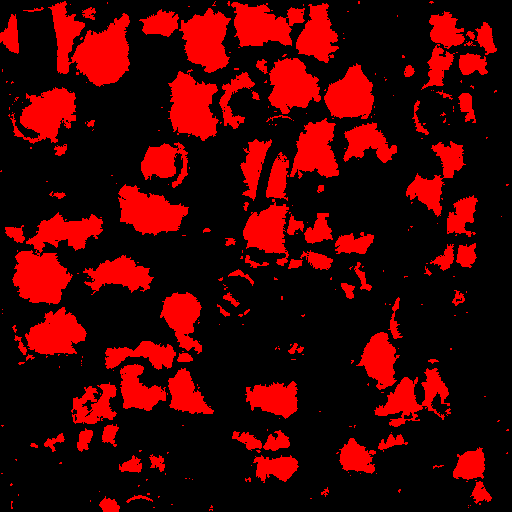
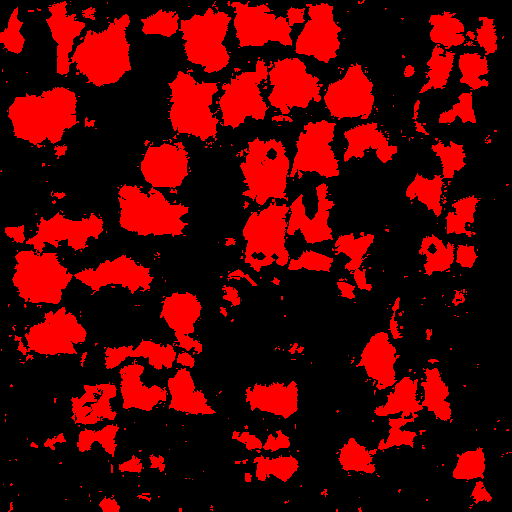
gfx: BON1A0 speckles were emission-mask holes — fuller glass mask + relative despeckle
The padding fill alone did not pass the in-game gate. The dominant source
turned out to be the emission mask: the flask glows steady at 0.85 with an
albedo-tinted glow, so a masked texel is 1.85x brighter than an unmasked
one, and make_bon1_emission.py's g > 70 test left every darker green shade
(35% of the covered glass) unmasked — each rendered at ~54% of its
neighbours, i.e. a black dot. Mask recipe: hue test (g > 30), closing of
holes inside the glass zone only, padding filled by nearest island.
fill_uv_padding.py gains relative texel/triangle despeckle and a grey guard
so strap edges are never recoloured green. Verified with the shader formula
on box mips: relative dark specks in the glass fall ~2.5x.

BonusAssetTests 2/2, PickupPlayTests 8/8, Windows build OK.

diff --git a/Tools/fill_uv_padding.py b/Tools/fill_uv_padding.py
@@ -51,6 +51,13 @@ def lum(rgb: np.ndarray) -> np.ndarray:
     return rgb[..., 0] * 0.299 + rgb[..., 1] * 0.587 + rgb[..., 2] * 0.114
 
 
+def sat(rgb: np.ndarray) -> np.ndarray:
+    """HSV saturation (0..1) of an (..., 3) array."""
+    mx = rgb.max(-1).astype(float)
+    mn = rgb.min(-1).astype(float)
+    return np.where(mx > 0, (mx - mn) / np.maximum(mx, 1e-6), 0.0)
+
+
 def nearest_fill(rgb: np.ndarray, keep: np.ndarray) -> np.ndarray:
     """Every texel outside `keep` takes the colour of the nearest kept texel."""
     if keep.all():
@@ -88,7 +95,28 @@ def despeckle(rgb: np.ndarray, region: np.ndarray, thr: float) -> np.ndarray:
     return out, int(dark.sum())
 
 
-def tri_despeckle(rgb: np.ndarray, obj_path: Path, thr: float, passes: int = 2):
+def rel_despeckle(rgb: np.ndarray, region: np.ndarray, ratio: float, size: int = 7):
+    """Texels darker than `ratio` x their local median (inside `region`, where
+    the median itself is a lit surface) take the median colour. Relative
+    rather than absolute: the flask's glass sits around lum 90-100 and its
+    bake noise at 55-65 slipped under the absolute cut yet reads as dots
+    once the steady glow multiplies the contrast."""
+    out = rgb.copy()
+    L = lum(rgb)
+    medL = ndimage.median_filter(L, size=size)
+    med = np.stack([ndimage.median_filter(rgb[..., c], size=size) for c in range(3)], -1)
+    # A grey texel next to coloured glass is a strap edge, not noise: only
+    # repaint when the texel itself is coloured or the target is grey too.
+    grey_guard = (sat(rgb) >= 0.2) | (sat(med) < 0.2)
+    dark = region & (medL > 40) & (L < medL * ratio) & grey_guard
+    if not dark.any():
+        return out, 0
+    out[dark] = med[dark]
+    return out, int(dark.sum())
+
+
+def tri_despeckle(rgb: np.ndarray, obj_path: Path, thr: float, passes: int = 2,
+                  ratio: float = None):
     """Mesh-aware despeckle: a triangle whose atlas footprint is dark while
     most of its vertex-adjacent neighbours are bright takes the median colour
     of those neighbours. Aimed at the 40k-triangle decimations whose tiny
@@ -129,16 +157,26 @@ def tri_despeckle(rgb: np.ndarray, obj_path: Path, thr: float, passes: int = 2):
         meanL = mean @ np.array([0.299, 0.587, 0.114])
         fixed = 0
         for i in range(n):
-            if meanL[i] >= thr:
-                continue
             nb = [j for j in adj[i] if j != i]
             if not nb:
                 continue
             nbL = meanL[nb]
-            bright = nbL > thr + 30
+            if ratio is None:
+                if meanL[i] >= thr:
+                    continue
+                bright = nbL > thr + 30
+            else:
+                nbMed = float(np.median(nbL))
+                if nbMed <= 40 or meanL[i] >= nbMed * ratio:
+                    continue
+                bright = nbL > nbMed * 0.8
             if bright.mean() < 0.6:
                 continue
             col = np.median(mean[np.array(nb)[bright]], axis=0)
+            # Grey triangle (strap edge) beside coloured glass: repaint only
+            # when nearly all neighbours agree it is an island of noise.
+            if sat(mean[i]) < 0.2 and sat(col) >= 0.2 and bright.mean() < 0.85:
+                continue
             foot = ids == i
             foot[cy[i], cx[i]] = True
             foot = ndimage.binary_dilation(foot, iterations=1) & ((ids == i) | ~inside | foot)
@@ -174,6 +212,10 @@ def main() -> None:
     ap.add_argument("--despeckle", type=float, default=None)
     ap.add_argument("--tri-despeckle", type=float, default=None,
                     help="repaint dark triangles among bright neighbours (lum threshold)")
+    ap.add_argument("--rel-despeckle", type=float, default=None,
+                    help="texel darker than RATIO x local median takes the median")
+    ap.add_argument("--tri-rel", type=float, default=None,
+                    help="triangle darker than RATIO x neighbour median takes their median")
     ap.add_argument("--out-dir", type=Path, default=None)
     ap.add_argument("--dump-mask", action="store_true")
     a = ap.parse_args()
@@ -195,9 +237,12 @@ def main() -> None:
     n_spec = 0
     if a.despeckle is not None:
         work, n_spec = despeckle(work, keep, a.despeckle)
-    if a.tri_despeckle is not None:
-        work, n_tri = tri_despeckle(work, a.obj, a.tri_despeckle)
-        print(f"  tri-despeckle {a.tri_despeckle}: repainted {n_tri} triangles")
+    if a.rel_despeckle is not None:
+        work, n_rel = rel_despeckle(work, keep, a.rel_despeckle)
+        print(f"  rel-despeckle {a.rel_despeckle}: replaced {n_rel} texels")
+    if a.tri_despeckle is not None or a.tri_rel is not None:
+        work, n_tri = tri_despeckle(work, a.obj, a.tri_despeckle or 0.0, ratio=a.tri_rel)
+        print(f"  tri-despeckle (thr {a.tri_despeckle}, ratio {a.tri_rel}): repainted {n_tri} triangles")
     filled = nearest_fill(work, keep)
     changed = np.any(filled != rgb, axis=-1)
     filled = snap_to_palette(filled, changed, palette)

diff --git a/Tools/make_bon1_emission.py b/Tools/make_bon1_emission.py
@@ -61,14 +61,37 @@ def rasterize(face_ids, color_test):
     return hit
 
 def glass_green(r, g, b):
-    return g > 70 and g > r * 1.2 and g > b * 1.2
+    # Hue test only — the first cut (g > 70) left every darker green shade
+    # of the bake unmasked, and with the steady 0.85 glow on its neighbours
+    # an unmasked glass texel renders at ~54% brightness: the "black
+    # speckles" on the flask (2026-09-02). Dark green is still glass.
+    return g > 30 and g > r * 1.15 and g > b * 1.15
 
 # The glass body: below the collar (the cap up top is green too, but dull —
 # native shows it unlit).
-glass = rasterize(np.nonzero(tri_yn < 0.72)[0], glass_green)
+glass_faces = np.nonzero(tri_yn < 0.72)[0]
+glass = rasterize(glass_faces, glass_green)
+
+# Close the remaining holes (grey bake noise inside the glass) within the
+# glass zone only, so the straps and collar stay dark.
+from scipy import ndimage
+zone_backup = mask.copy()
+mask[:] = 0
+rasterize(glass_faces, lambda r, g, b: True)
+zone = mask > 0
+mask[:] = zone_backup
+closed = ndimage.binary_closing(mask > 0, iterations=3) & zone
+mask[closed] = 255
+
+# Padding between the UV islands takes the nearest island's mask value so
+# the mip chain does not fade the glow along every triangle border.
+from doomify3d import uv_coverage_mask
+cov = uv_coverage_mask(dst / "BON1A0.obj", (W, H))
+_, (iy, ix) = ndimage.distance_transform_edt(~cov, return_indices=True)
+mask = mask[iy, ix]
 
 out = np.zeros((H, W, 4), dtype=np.uint8)
 out[:, :, 0] = mask
 out[:, :, 3] = 255
 Image.fromarray(out).save(dst / "BON1A0_emission.png")
-print(f"glass texels {glass}, mask -> BON1A0_emission.png")
+print(f"glass texels {glass}, closed {int(closed.sum())}, mask -> BON1A0_emission.png")

diff --git a/CLAUDE.md b/CLAUDE.md
@@ -100,7 +100,7 @@ Stages 0–8 are done (6a–6f including music; 7a–7e including E1 standalone;
 
 **Кламп площадки лежачих трупов внутри сектора ✅ закрыт 2026-09-02 («проверил в игре, выглядит хорошо»)** (branch `main`; повод — два скриншота пользователя: труп сержанта на лифте E1M3 при подъёме «наполовину за шахтой»). Диагноз без запуска игры, по сейву слота 0 + WAD: thing 103 (`SPOS`, кадр L) лежит в **0.5 юнита** от южной кромки лифта (сектор 47, tag 1, 128×64; линия 261 → сектор 34, пол 0) — убит, когда лифт стоял внизу вровень с соседом, кромки не было; лежачий меш `SPOSL0` занимает площадку ~50×47 юнитов, половина висела над ямой, а `FloorAnchor` тянет вещь по центру — при подъёме свес режется шахтой. **Врождённое свойство плоского 3D-трупа**: билборд стоит на центре и свеса не показывает. Решение — визуальный кламп, точка вещи/коллизия/сейв не трогаются: чистый `SectorFootprintClamp` (`Doom.Map`) — минимальный сдвиг ориентированного прямоугольника площадки внутрь граничных линий своего сектора (front справа от v1→v2 — думовская конвенция; учитываются только линии в досягаемости площадки, чтобы дальнее плечо вогнутого сектора не толкало; кап 32 юнита; итерации по углам), обёртка `CorpseFootprintClamp` (`MapBuild`: сектор по тому же raycast, что `FloorAnchor.FindSectorBelow`, теперь статический; карта из `WorldStateRegistry`), шов в `ExperimentalMonsterModel` — сдвиг считается ОДИН раз на смерть по площадке последнего покрытого кадра, `yawPivot` **сползает** по цепочке смерти H→L (доля по кадру + MoveTowards 4/с; ванильные трупы тоже скользят по инерции), труп из сейва прикладывается сразу (угол берётся с билборда — он несёт восстановленный угол), лужа U0 — сразу после спрея гибсов; трупы-декорации 10/12/15/18–21 клампятся при спавне в `ExperimentalPickupModel`. Classic и 3D Off не тронуты, схема сейва не менялась. **Ловушка тестов: `SyntheticMapBuilder.SingleSquareSector` намотан ПРОТИВ часовой (front слева) — ни один думовский редактор так не пишет, для тестов конвенции сторон строить свой квадрат по часовой.** Тесты: EditMode `SectorFootprintClampTests` ×6 (синтетика + пин E1M3: сдвиг на север >20, все углы внутри лифта), PlayMode `CorpseFootprintClampPlayTests` ×3 на реальной E1M3 (сервис из живой сцены, снап восстановленного трупа, сползание по цепочке). Полные сьюты: EditMode **717/717** + PlayMode **200/200** без флейков; Windows build Success **~565 MB**.
 
-**Крапины на фляжке BON1A0: заливка UV-паддинга + меш-деспекл ✅ установлено 2026-09-02 (игровой гейт за пользователем)** (branch `main`; повод — скриншот пользователя «зелёные баночки со здоровьем имеют чёрные вкрапления, видимо после децимации»). **Диагноз: не децимация и не число треугольников — это мипы атласа.** Альбедо BON1A0 512² импортируется с мипами и Point-фильтром; объект на экране ~150 px, значит сэмплируются мипы 1–2, а box-усреднение смешивает цвет островов с тёмным паддингом атласа (средняя яркость вне UV-покрытия 62 против 96 внутри) и тёмной антиалиас-кромкой бейка (42% краевых текселей темнее 60). Усугубляет 40k-децимация: **38% треугольников фляжки меньше одного текселя атласа** и на мипах каждый тянет один усреднённый тексель — отсюда чёрные «фасетки» по границам треугольников на стекле; на mip0 стекло почти чистое. Повышать лимит треугольников бесполезно: острова и их границы те же при 40k и 100k, децимация сохраняет атлас. Механизм — тот же, что в волне трупов 512 (тогда правилось руками), теперь инструмент **`Tools/fill_uv_padding.py`**: покрытие по UV-треугольникам OBJ → `--rim N` эрозия кромки островов (острова тоньше 2N сохраняют себя) → `--despeckle T` медиана для одиночных тёмных текселей → `--tri-despeckle T` **меш-ориентированный деспекл** (тёмный треугольник, у которого ≥60% соседей по вершинам ярче на 30+, перекрашивается их медианой; 1294 треугольника у BON1A0) → EDT-заливка паддинга цветом ближайшего оставленного текселя → реквантование изменённых текселей в собственную палитру альбедо (27 цветов); маска эмиссии получает только заливку паддинга, её покрытые тексели бит-в-бит. Замер на рендерах с box-мипами (`doomify3d.render`): тёмные пиксели внутри зелёной зоны mip1 101/281/76 → 74/94/22, mip2 158/69 → 72/1 (один ракурс 42→51 — шум); экранный тон 100.4 → 101.1. Заменены только PNG (меш/UV не тронуты). Тесты: `BonusAssetTests` 2/2, `PickupPlayTests` 8/8, Windows build Success. **Остаток класса: все прочие 512-альбедо (трупы) и 256-альбедо предметов имеют тот же тёмный паддинг — кандидат на массовый прогон инструмента, если гейт фляжки пройдёт.**
+**Крапины на фляжке BON1A0: маска эмиссии + заливка UV-паддинга + меш-деспекл ✅ установлено 2026-09-02 (игровой гейт за пользователем; первая итерация — только паддинг — гейт НЕ прошла: «то же самое»)** (branch `main`; повод — скриншот пользователя «зелёные баночки со здоровьем имеют чёрные вкрапления, видимо после децимации»). **Диагноз в три слоя, и главный нашёлся только через формулу шейдера.** (1) Не децимация: острова атласа и их границы одинаковы при 40k и 100k треугольников, щелей в меше нет (12 граничных рёбер, ноль дырок при отсечении задних граней), z-fighting исключён (<0.3% пикселей с второй поверхностью в 0.3% габарита). (2) Мипы атласа: альбедо 512² с мипами и Point, фляжка ~150 px → мипы 1–2 смешивают острова с тёмным паддингом (яркость вне UV-покрытия 62 против 96) и тёмной кромкой бейка; 38% треугольников меньше текселя атласа. Это лечит новый **`Tools/fill_uv_padding.py`** (эрозия кромки, деспекл абсолютный и **относительный** к локальной медиане, **меш-ориентированный деспекл** треугольников среди ярких соседей со сторожем «серое в цвет не красить» — иначе обручи зеленеют, EDT-заливка паддинга, реквантование в собственную палитру), но одного этого оказалось мало. (3) **Главное — маска эмиссии**: фляжка идёт по gem-blink-пути с вечной яркой фазой (`_PulseStrength` 0.85, `glowTint = albedo`), то есть замаскированный тексель светит в 1.85× ярче, а `make_bon1_emission.py` отбирал стекло тестом `g > 70` — все тёмно-зелёные оттенки бейка (35% покрытых зелёных текселей!) оставались без маски и рендерились вдвое темнее соседей: это и были «чёрные вкрапления», в софт-рендере без свечения невидимые. Рецепт маски переписан: хью-тест (`g > 30`), морфологическое закрытие дырок внутри зоны стекла (по высоте меша, обручи и воротник тёмные — доля маски на не-зелёных текселях 0.007), EDT-заливка паддинга маски. **Правило на будущее: артефакты светящихся мешей судить рендером С формулой шейдера** (`albedo × (1 + 0.85·mask)`) — метрика «тёмные пиксели относительно локальной медианы в зелёной зоне» на box-мипах: mip1 344/601/221 → 134/207/78, mip2 348/370/258 → 204/166/77; экранная яркость +4% (стекло светится целиком). Остаток — смешение соседних островов стекла и металла на мипах, неустранимое без перекладки атласа. Заменены только два PNG, меш/UV не тронуты. Тесты: `BonusAssetTests` 2/2, `PickupPlayTests` 8/8, Windows build Success. **Кандидаты того же класса: все steady-glow меши (SOUL, PINV, COLU, ELEC) — проверить маски на дырки по тому же рендеру; 512-альбедо трупов — заливка паддинга.**
 
 **Волна 17 перерисовки текстур мира (SKY1) ✅ закрыта 2026-09-02 («проверил в игре, выглядит хорошо»; по панели — «принимаем, ставь как есть») — покрытие редравов эпизода ПОЛНОЕ, дальнего резерва трека больше нет** (branch `main`; промпт `Textures/WorldRedraw/prompt-sky1.md`). «Отдельный рендер-путь» оказался мифом: `WadSkyRenderer` берёт `SKY1` через `TextureCache.GetTexture(name, profile.WorldTextureVariant)`, так что в Enhanced небо уже было Super-xBR 4× и редрав по имени подключился штатным каталогом. Реальная особенность — масштаб: сфера натягивает ОДНУ копию 256×128 на 360° поворота и от зенита до надира (горизонт по ряду 64; шейдер `Doom/Sky` сэмплирует LOD 0 point-ом), на 1920 px при FOV 90° это ~30 экранных px на нативный тексель — крупнейшая магнификация в игре. Решение волны: **контракт SKY1 — 8× = 2048×1024** (`WorldRedrawAllowlist.ScaleFor(name)`; `WorldRedrawCatalog.SizeValid` и asset-тест — пер-имя; прочие 4×; джоб строит мипы от уровня 0 и других правок не потребовал), валидатор получил `--scale`. Правила промпта для неба: шов только по горизонтали (панорама), по вертикали НЕ тайлится — верхние/нижние ~4% почти однородны (иначе деталь у полюсов стянется в «звезду»), композиция один-в-один с процентными пинами холмов/седловины/облачной гряды/тумана, без солнца и бликов, гамма пасмурная. Приёмка: шов 0.00 с первого прогона (GPT сам замкнул панораму), полюса std 0–2.7, силуэт хребта в ~4 рядах из 128 (пики x 152 против 156), тон 0.94 → 1.00; **зелень холмов пришла 1.8% против нативных 24% и оказалась ТОНАЛЬНОЙ** (прецедент AQPANL01 волны 14): после `tone_match_redraw.py` 19.8%. Принято с оговорками (вердикт пользователя): холмы — однородное «валунное поле», читается фотографичнее натива (чёрная скала + мох), рыжие короны вершин ослабли, облака мягче нативных; кандидат ре-ролла с пинами, если в игре не понравится. Allowlist **383**, пайплайн **v45**. Тесты: `WorldRedrawCatalogTests` +1 (SKY1 8×, 4× для неба отвергается), `TextureUpscalePlayTests.Sky_and_fluids…` на `ScaleFor`. Целевые: EditMode 10/10 + PlayMode 12/12; полные сьюты EditMode **723/723** + PlayMode **200/200** без флейков; Windows build Success **~570 MB** каталог (+6 MB за 2048×1024).
 
